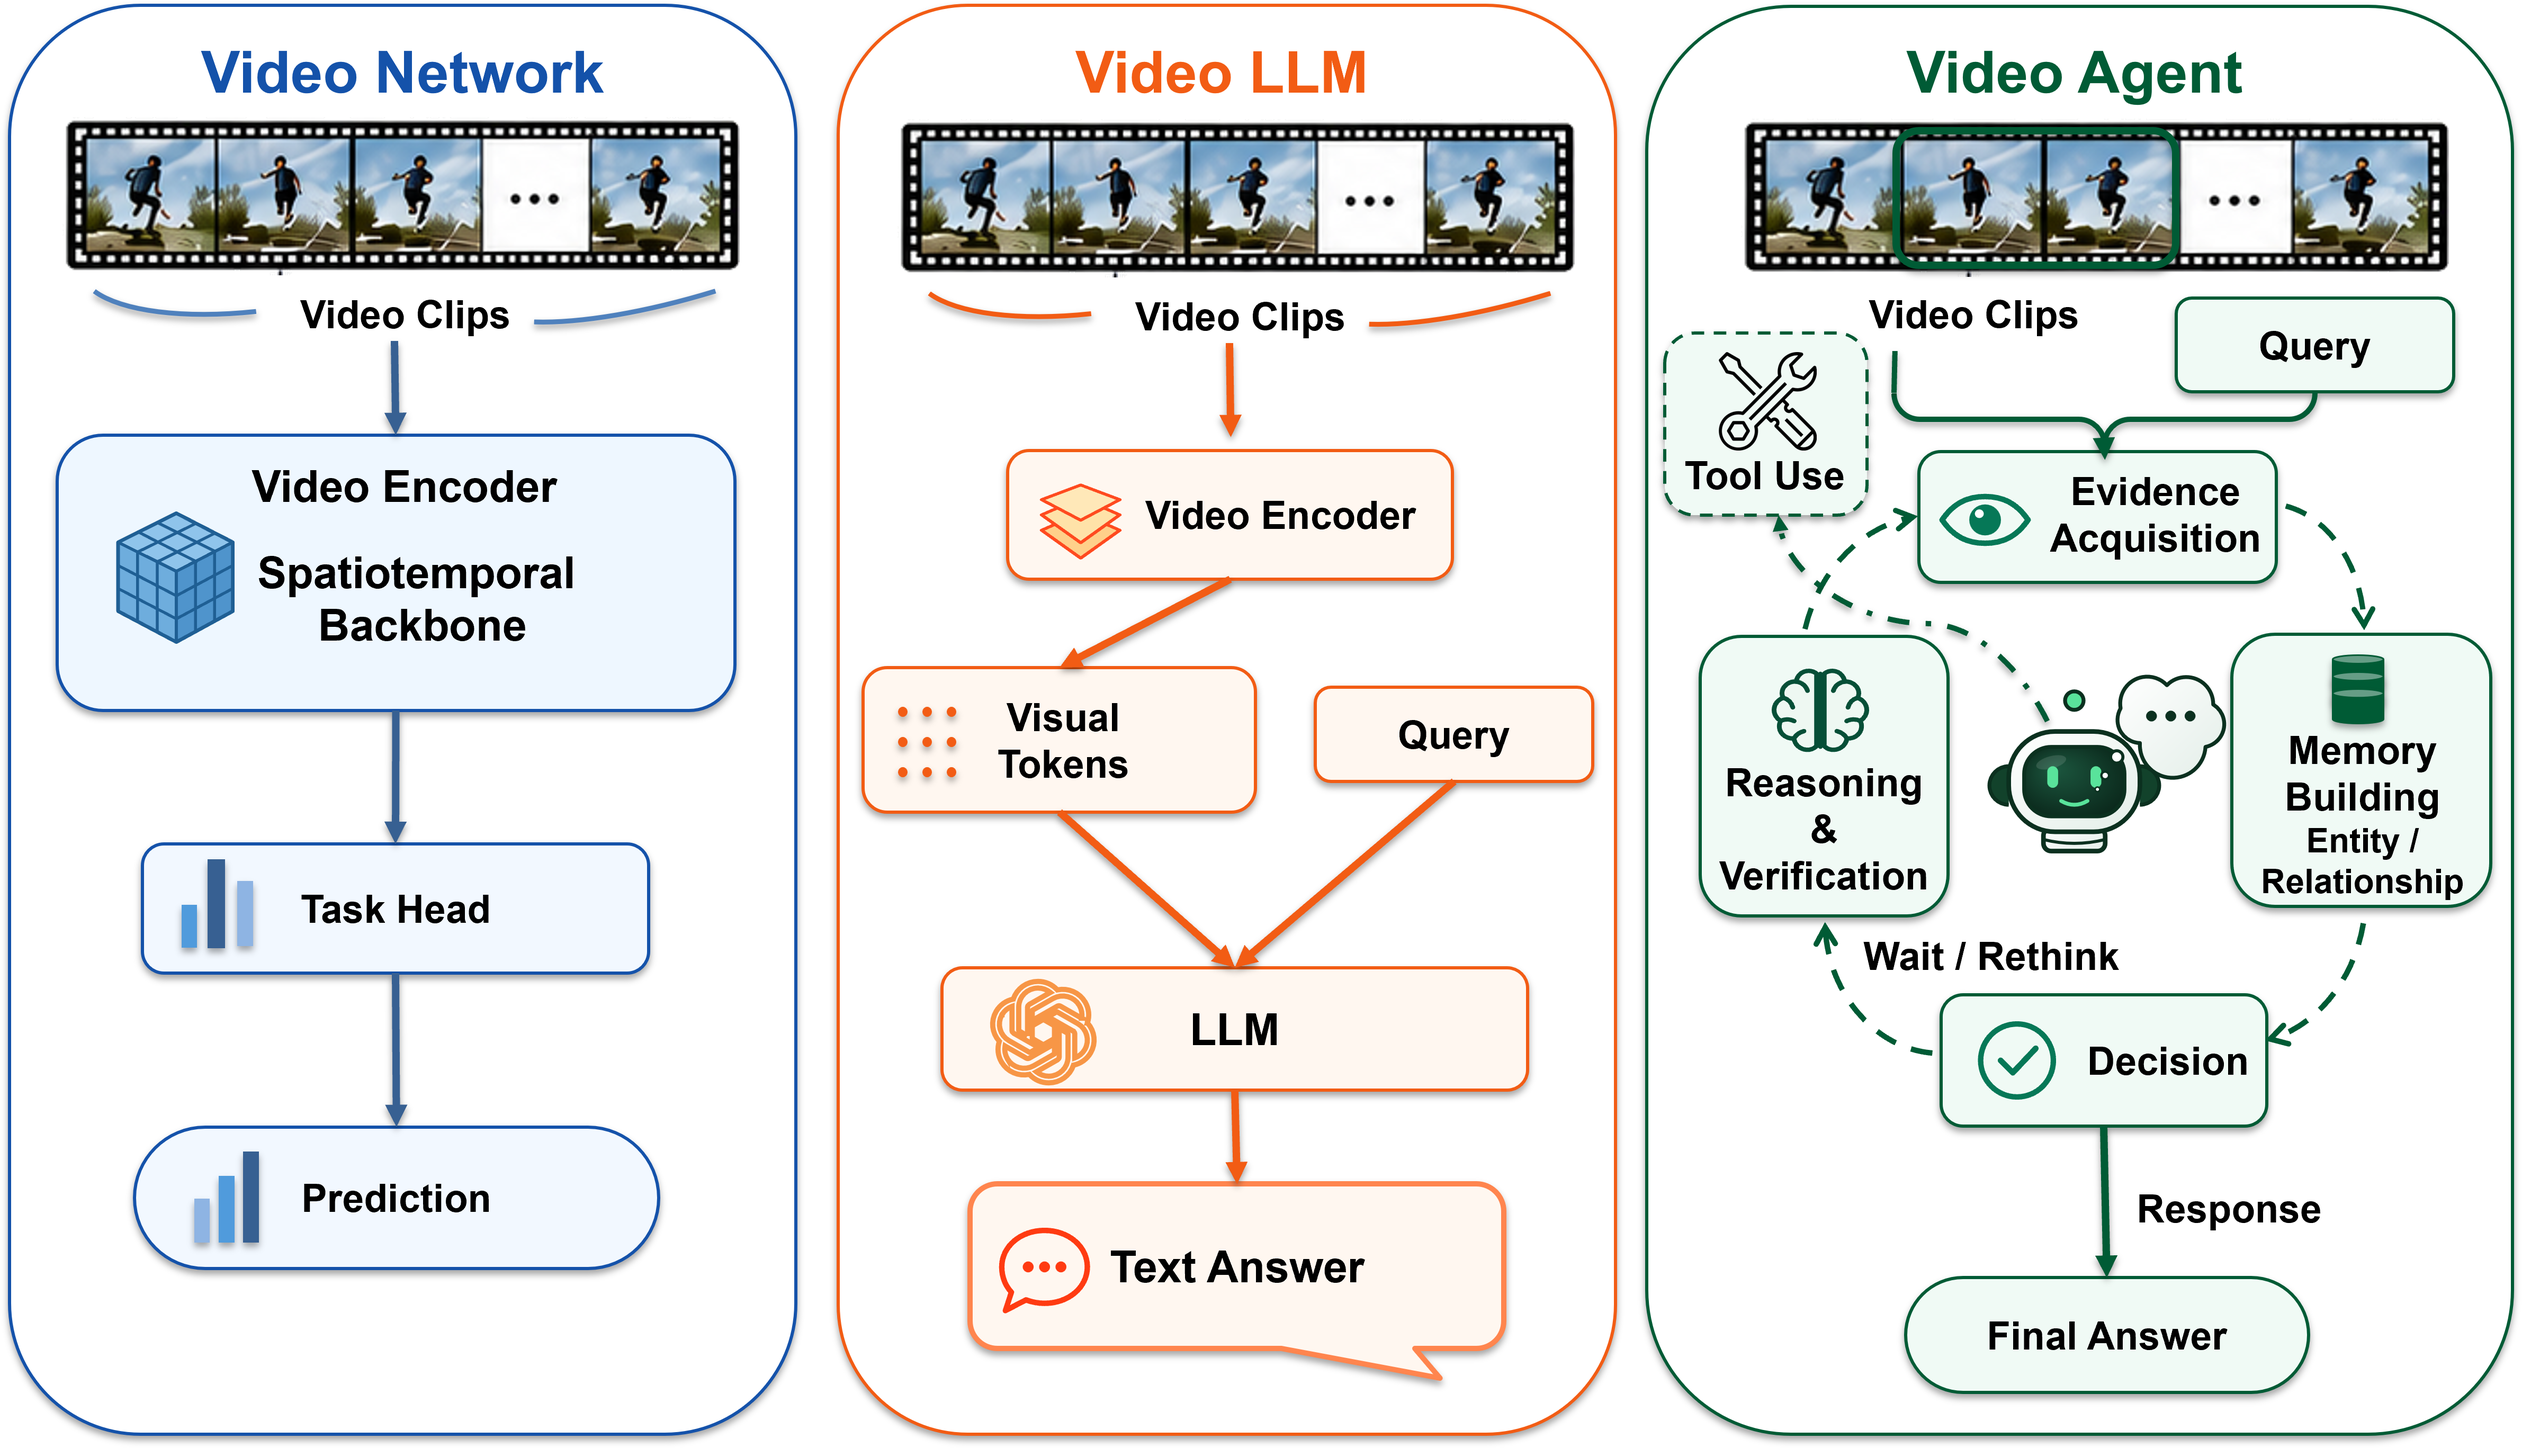
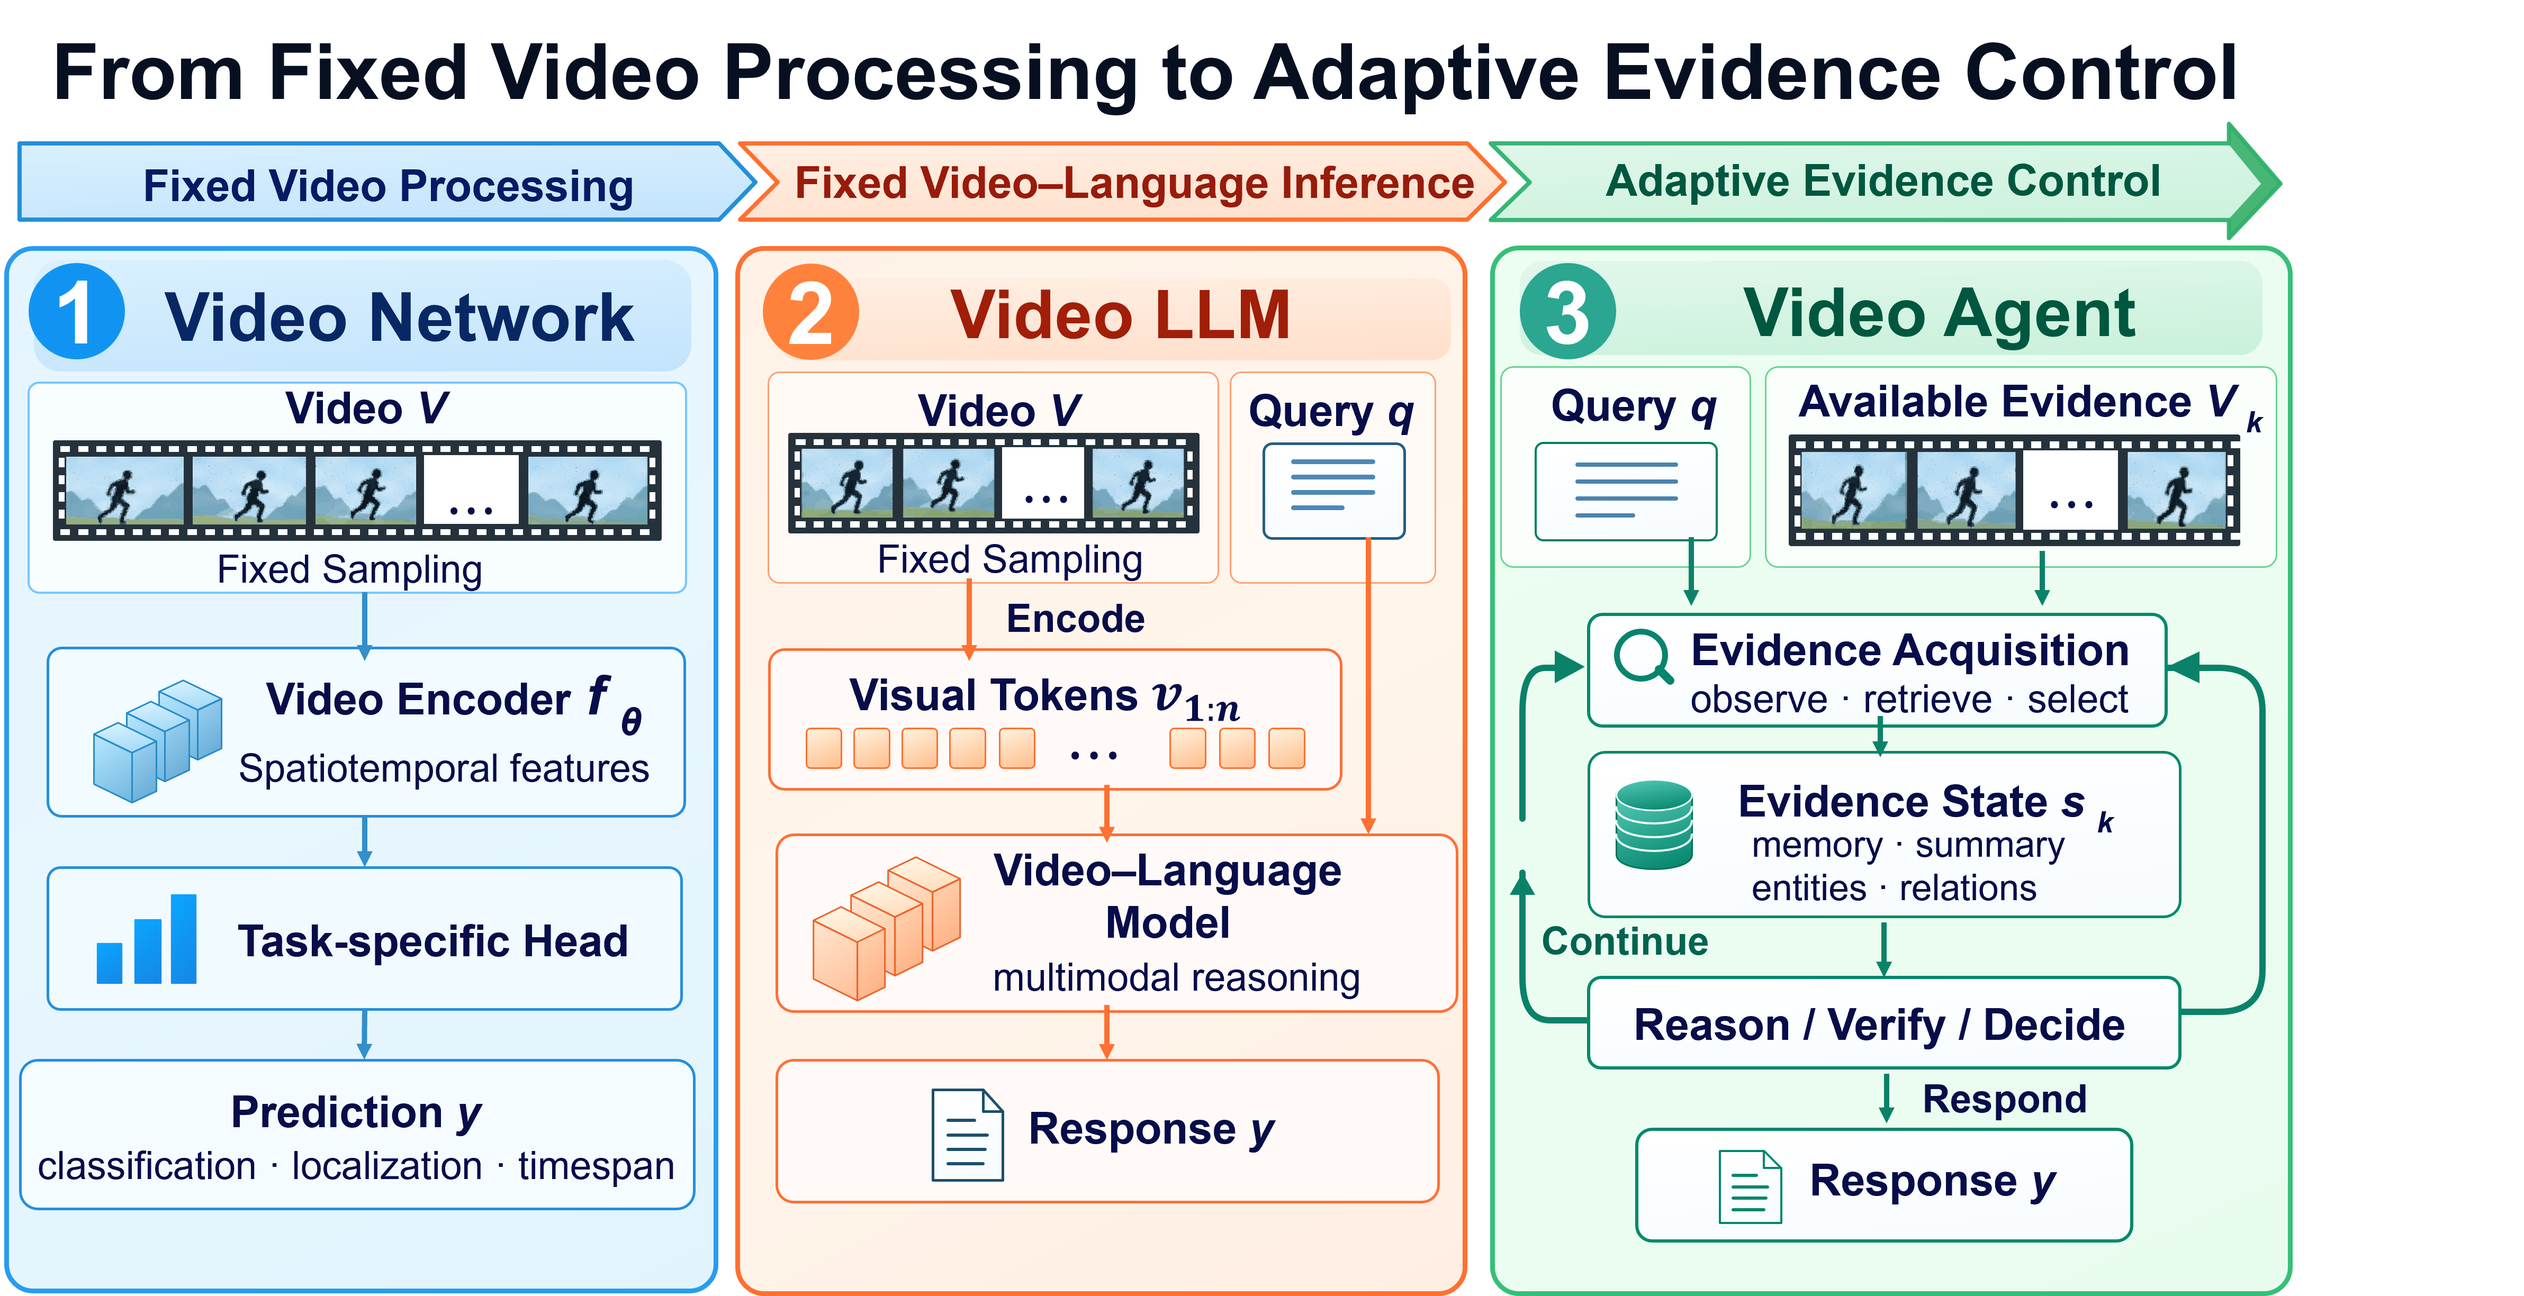
Add files via upload

diff --git a/README.md b/README.md
@@ -2,6 +2,12 @@
 
 # 🎬 Agentic Video Understanding: A Survey
 
+<div align="center">
+
+[**📄 Paper**](Paper/Video_Agent_Survey.pdf) · [**📎 Appendix**](Paper/Appendix.pdf) · [**arXiv**](https://arxiv.org/abs/2609.31713)
+
+</div>
+
 | <img width="100%" src="docs/assets/figure1.png" alt="From video networks and Video LLMs to video agents"> |
 |:--:|
 | **From passive video processing to adaptive action control.** |
@@ -26,8 +32,11 @@ If you find this survey useful, please cite:
   title  = {Agentic Video Understanding: A Survey},
   author = {Deng, Xinyu and Luo, Siwen and Liu, Daochang},
   year   = {2026},
-  note   = {Manuscript},
-  url    = {https://github.com/DXY0711/Awesome-Agentic-Video-Understanding/blob/main/Paper/Video_Agent_Survey.pdf}
+  note   = {Accepted to DICTA 2026},
+  eprint = {2609.31713},
+  archivePrefix = {arXiv},
+  primaryClass = {cs.CV},
+  url    = {https://arxiv.org/abs/2609.31713}
 }
 ```
 
